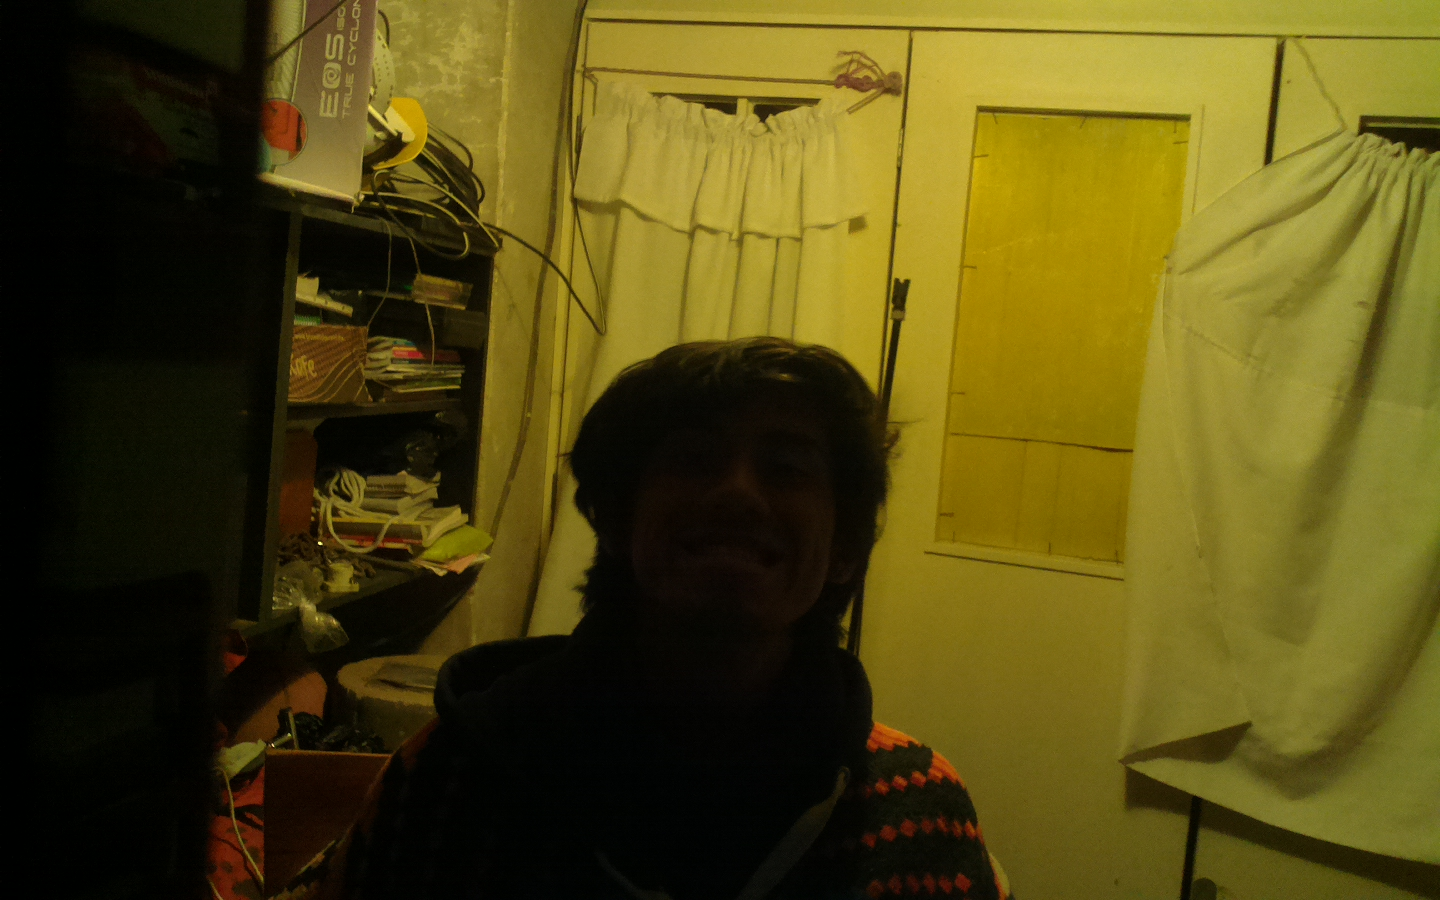
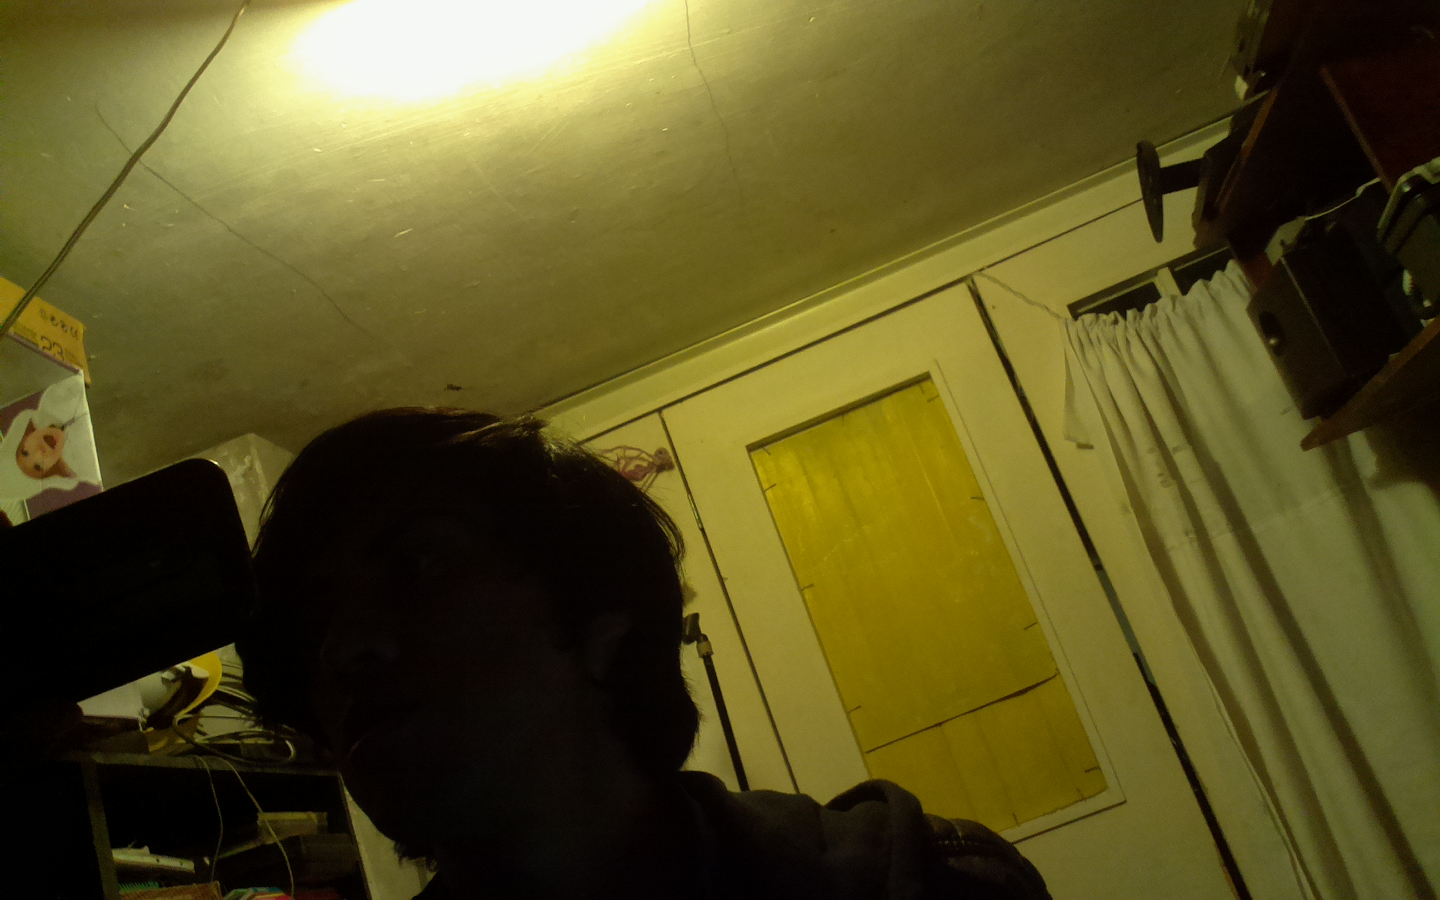
COMMIT DESDE LA RASPBERRY ECNONTRE EL ERROOOOO1git add -Agit add -A

diff --git a/RPC/Configuracion_LBP.py b/RPC/Configuracion_LBP.py
@@ -1,4 +1,5 @@
 import MySQLdb
+import numpy
 
 class Configuracion_LBP():
 
@@ -82,11 +83,11 @@ class Configuracion_LBP():
             #   A UN ARRAY PARA PODER UTILIZARLOS
 
             Matrix[lbp] = str(Matrix[lbp])#CONVERTIMOS A STRING
-            Matrix[lbp] = Matrix[lbp].translate(None,"n\(),''[]")#ELIMINAMOS LOS CARACTERES
+            Matrix[lbp] = Matrix[lbp].translate(None,"n\(),'[]")#ELIMINAMOS LOS CARACTERES
             Matrix[lbp] = Matrix[lbp].split("  ")#CADA DOS ESPACIOS E
-            Matrix[lbp][0]=Matrix[lbp][0].strip(" ")#ELIMINAMOS EL ESPACIO VACIO DEL PRIMER VALOR DEL ARREGLO
-		
-        self.cursor.close()
+            Matrix[lbp][0]=Matrix[lbp][0].strip(" ")#ELIMINAMOS EL ESPACIO VACIO DEL PRIMER VALOR DEL ARRAY
+       
+	self.cursor.close()
 	
-	Matrix = [map(float,i) for i in Matrix]
+	Matrix = [map(float,i) for i in Matrix]#PASO DE LA MUERTE
         return Matrix

diff --git a/RPC/Procesamiento.py b/RPC/Procesamiento.py
@@ -43,7 +43,7 @@ class Procesamiento():
             desconocida con respecto a los LBP de cada usuario de la Base de
             Datos
         """
-        NoUsuarios = float(self.Config.Numero_Usuarios())        # OBTIENE EL NUMERO DE USUARIOS
+        NoUsuarios = self.Config.Numero_Usuarios()        # OBTIENE EL NUMERO DE USUARIOS
         DE = [0.0, 0.0, 0.0]#Distancia Euclidiana
         contador = 1
 	flag = 0

diff --git a/RPC/Captura.py b/RPC/Captura.py
@@ -23,6 +23,7 @@ def Fotos():
     #   CAPTURA LAS FOTOGRAFIAS DEL USUARIO A INGRESAR
     #   AL SISTEMA
     camera = PiCamera()
+    camera.rotation = 180
     camera.start_preview()
 
     for i in range(3):
